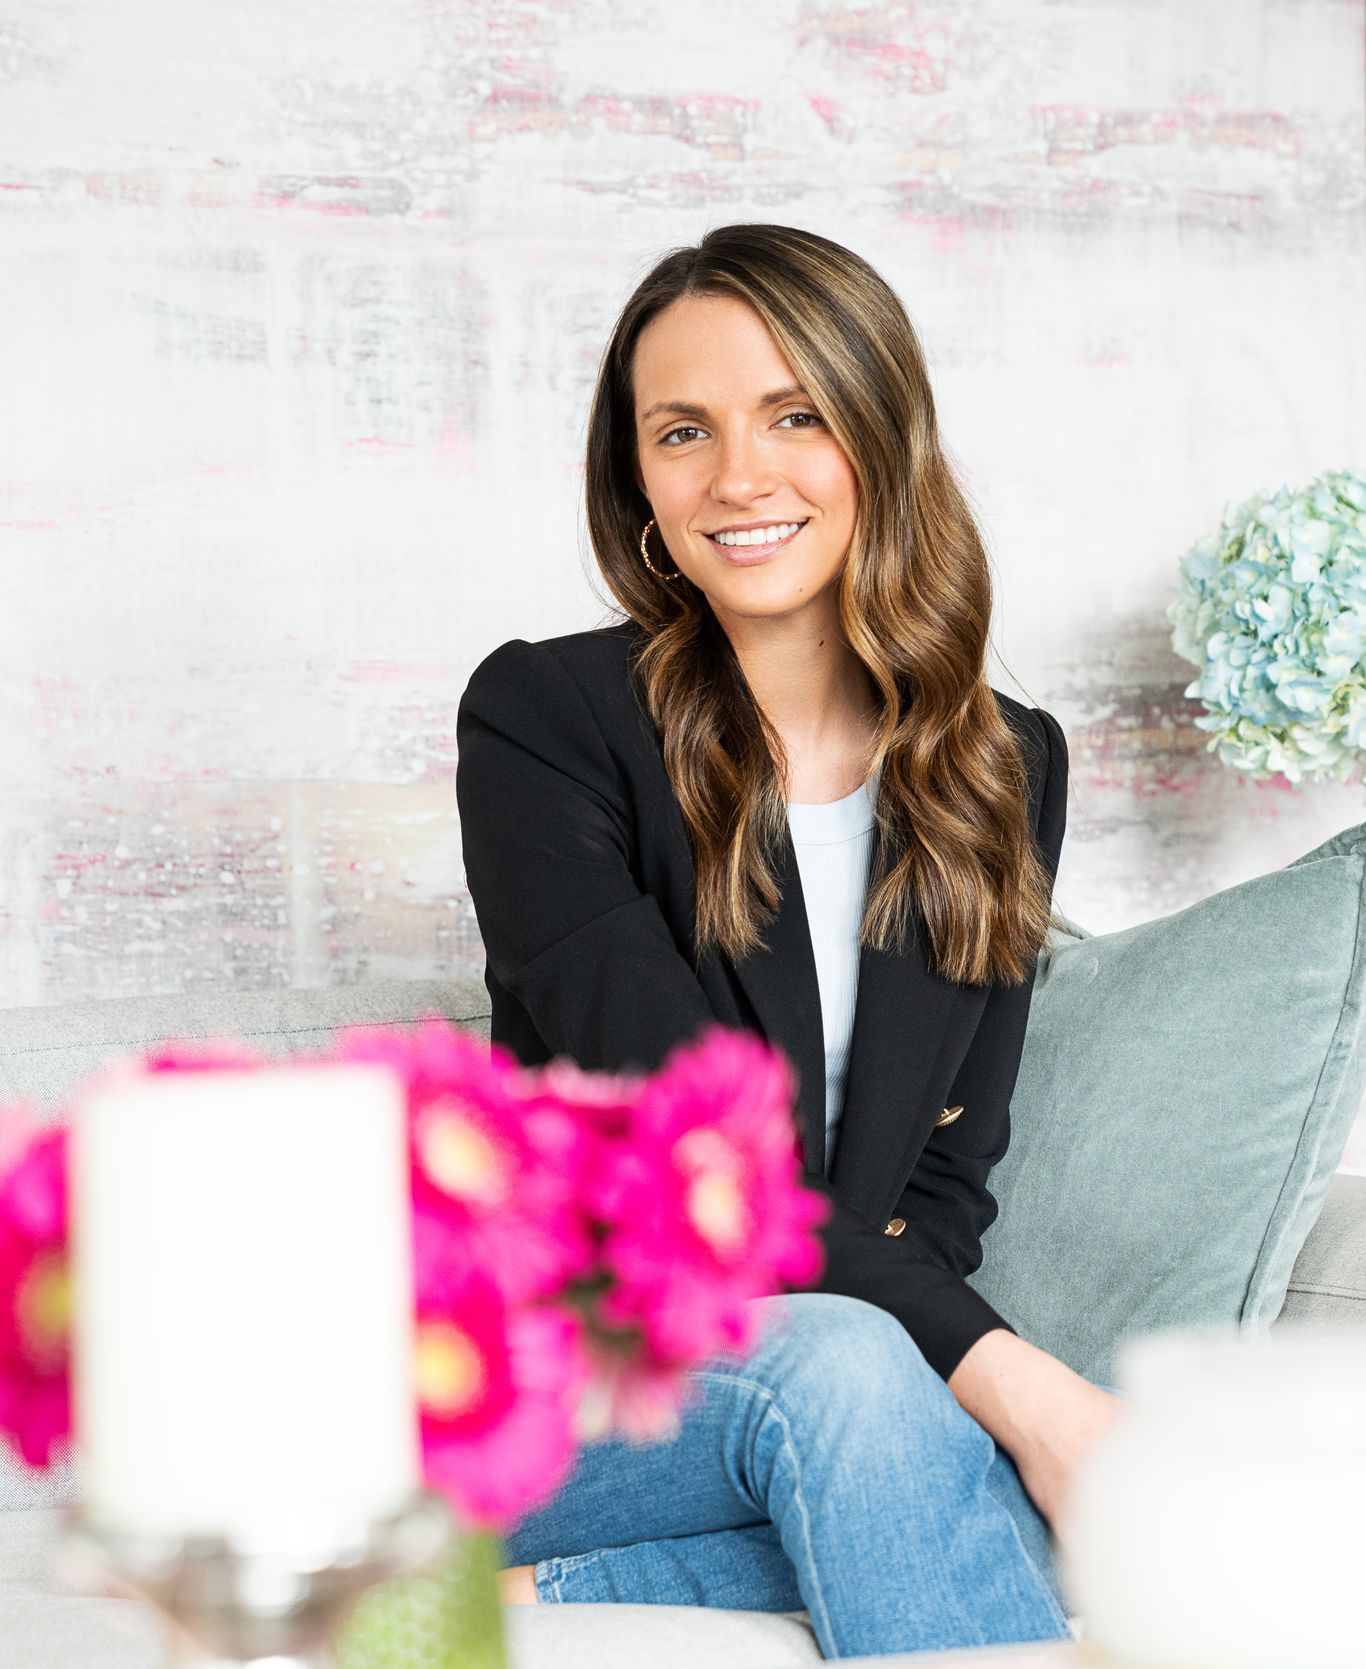
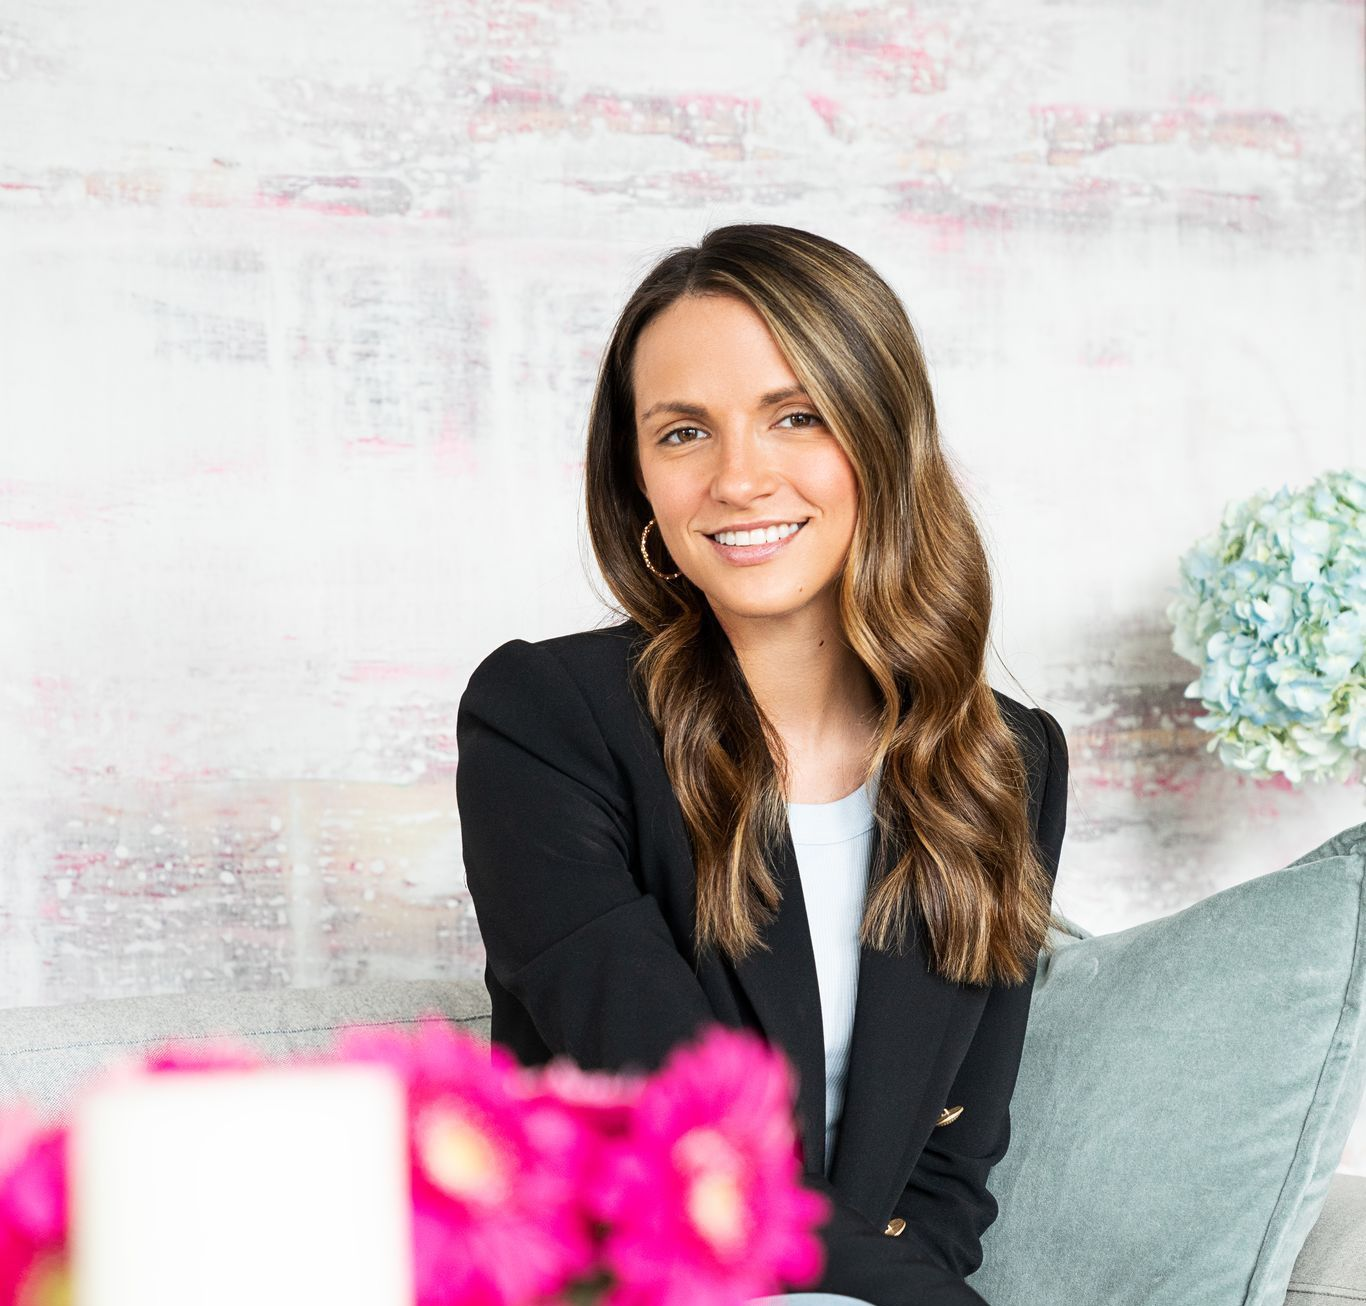
removing blog for now. updating home page title. cropping jeans. removing family therapy.

diff --git a/services.html b/services.html
@@ -32,7 +32,7 @@
           </button>
           <div class="collapse navbar-collapse" id="navbarNav">
             <ul class="navbar-nav mx-auto nav-fill w-100">
-              <li class="nav-item home-top">
+              <li class="nav-item">
                 <a class="nav-link" href="index.html"><span class="material-symbols-outlined">
                   circle
                   </span></a>
@@ -43,14 +43,9 @@
               <li class="nav-item">
                 <a class="nav-link" href="services.html">SERVICES</a>
               </li>
-              <li class="nav-item home-middle">
-                <a class="nav-link" href="index.html"><span class="material-symbols-outlined">
-                  circle
-                  </span></a>
-              </li>
-              <li class="nav-item">
+              <!-- <li class="nav-item">
                 <a class="nav-link" href="blog.html">BLOG</a>
-              </li>
+              </li> -->
               <li class="nav-item">
                 <a class="nav-link" href="contact.html">CONTACT</a>
               </li>
@@ -62,7 +57,7 @@
     </div>
     <div class="container services-grid">
       <div class="row">
-        <div class="about-col col-md-12 col-lg-6">
+        <div class="about-col col-md-12 col-lg-12">
           <div class="services-card card border-0 ml-auto shadow ml-auto my-5">
             <div class="card-body p-5">
               <h1 class="fw-light service-title">Individual Therapy</h1>
@@ -70,7 +65,7 @@
                 Lorem ipsum dolor sit amet, consectetur adipiscing elit, sed do eiusmod tempor incididunt ut labore et dolore magna aliqua. Ut enim ad minim veniam, quis nostrud exercitation ullamco laboris nisi ut aliquip ex ea commodo consequat.              </div>
           </div>
         </div>
-        <div class="about-col col-md-12 col-lg-6">
+        <!-- <div class="about-col col-md-12 col-lg-6">
           <div class="services-card card border-0 ml-auto shadow ml-auto my-5">
             <div class="card-body p-5">
               <h1 class="fw-light service-title">Family Therapy</h1>
@@ -78,7 +73,7 @@
                 Lorem ipsum dolor sit amet, consectetur adipiscing elit, sed do eiusmod tempor incididunt ut labore et dolore magna aliqua. Ut enim ad minim veniam, quis nostrud exercitation ullamco laboris nisi ut aliquip ex ea commodo consequat.
               </div>
           </div>
-        </div>
+        </div> -->
         </div>
       </div>
     </div>

diff --git a/index.html b/index.html
@@ -39,7 +39,7 @@
           </button>
           <div class="collapse navbar-collapse" id="navbarNav">
             <ul class="navbar-nav mx-auto nav-fill w-100">
-              <li class="nav-item home-top">
+              <li class="nav-item">
                 <a class="nav-link nav-link-index" href="index.html"><span class="material-symbols-outlined">
                   circle
                   </span></a>
@@ -50,14 +50,9 @@
               <li class="nav-item">
                 <a class="nav-link nav-link-index" href="services.html">SERVICES</a>
               </li>
-              <li class="nav-item home-middle">
-                <a class="nav-link nav-link-index" href="index.html"><span class="material-symbols-outlined">
-                  circle
-                  </span></a>
-              </li>
-              <li class="nav-item">
+              <!-- <li class="nav-item">
                 <a class="nav-link nav-link-index" href="blog.html">BLOG</a>
-              </li>
+              </li> -->
               <li class="nav-item">
                 <a class="nav-link nav-link-index" href="contact.html">CONTACT</a>
               </li>
@@ -65,7 +60,14 @@
           </div>
         </div>
       </nav>
-      <h1 class="display-2 text-center" id="landing-title">Lauren Davis</h1>
+      <h1 class="text-center" id="landing-title">
+        <div>
+        Lauren Davis, LCSW
+        </div>
+        <div id="landing-description">
+          Psychotherapy
+        </div>
+      </h1>
     </div>
 </body>
 </html>

diff --git a/custom.css b/custom.css
@@ -61,19 +61,34 @@
     border-color: rgb(255, 255, 255, 0) !important;
 }
 
-@media (max-width: 992px) {
-    .home-middle {
-        display: none;
-    }
-}
-
-@media (min-width: 992px){
-    .home-top {
-        display: none;
-    }
-}
-
 /* Landing page */
+
+/* Small devices and below */
+@media (max-width: 992px) {
+    #landing-title {
+        font-size: 13vw;
+        font-style: normal !important;
+    }
+
+    #landing-description { 
+        padding-top: 30px;
+        font-size: 6vw;
+        font-style: italic !important; 
+    }
+}
+
+/* Large devices and above */
+@media (min-width: 992px){
+    #landing-title {
+        font-size: 5.0vw;
+    }
+
+    #landing-description { 
+        padding-top: 30px;
+        font-size: 2.5vw;
+    }
+}
+
 .landing-body {
     background: url('images/butterflies.jpg') no-repeat center center fixed;
     -webkit-background-size: cover;
@@ -82,15 +97,19 @@
     -o-background-size: cover;
 }
 
-  #landing-title{
+#landing-title {
     position: absolute;
     top: 50%;
     left: 50%;
     transform: translate(-50%, -50%);
-    color: rgba(255, 255, 255, 0.734); /*white text*/
+    color: rgba(255, 255, 255, 0.824); /*white text*/
     /* font-weight: bold; */
     font-style: italic;
-    font-size: 6.5vw;
+}
+
+#landing-description {
+    font-family: 'Libre Baskerville', serif !important;
+    font-style: normal;
 }
 
 /* About page */

diff --git a/about.html b/about.html
@@ -35,7 +35,7 @@
           </button>
           <div class="collapse navbar-collapse" id="navbarNav">
             <ul class="navbar-nav mx-auto nav-fill w-100">
-              <li class="nav-item home-top">
+              <li class="nav-item">
                 <a class="nav-link" href="index.html"><span class="material-symbols-outlined">
                   circle
                   </span></a>
@@ -46,14 +46,9 @@
               <li class="nav-item">
                 <a class="nav-link" href="services.html">SERVICES</a>
               </li>
-              <li class="nav-item home-middle">
-                <a class="nav-link" href="index.html"><span class="material-symbols-outlined">
-                  circle
-                  </span></a>
-              </li>
-              <li class="nav-item">
+              <!-- <li class="nav-item">
                 <a class="nav-link" href="blog.html">BLOG</a>
-              </li>
+              </li> -->
               <li class="nav-item">
                 <a class="nav-link" href="contact.html">CONTACT</a>
               </li>

diff --git a/contact.html b/contact.html
@@ -32,7 +32,7 @@
           </button>
           <div class="collapse navbar-collapse" id="navbarNav">
             <ul class="navbar-nav mx-auto nav-fill w-100">
-              <li class="nav-item home-top">
+              <li class="nav-item">
                 <a class="nav-link" href="index.html"><span class="material-symbols-outlined">
                   circle
                   </span></a>
@@ -43,14 +43,9 @@
               <li class="nav-item">
                 <a class="nav-link" href="services.html">SERVICES</a>
               </li>
-              <li class="nav-item home-middle">
-                <a class="nav-link" href="index.html"><span class="material-symbols-outlined">
-                  circle
-                  </span></a>
-              </li>
-              <li class="nav-item">
+              <!-- <li class="nav-item">
                 <a class="nav-link" href="blog.html">BLOG</a>
-              </li>
+              </li> -->
               <li class="nav-item">
                 <a class="nav-link" href="contact.html">CONTACT</a>
               </li>
